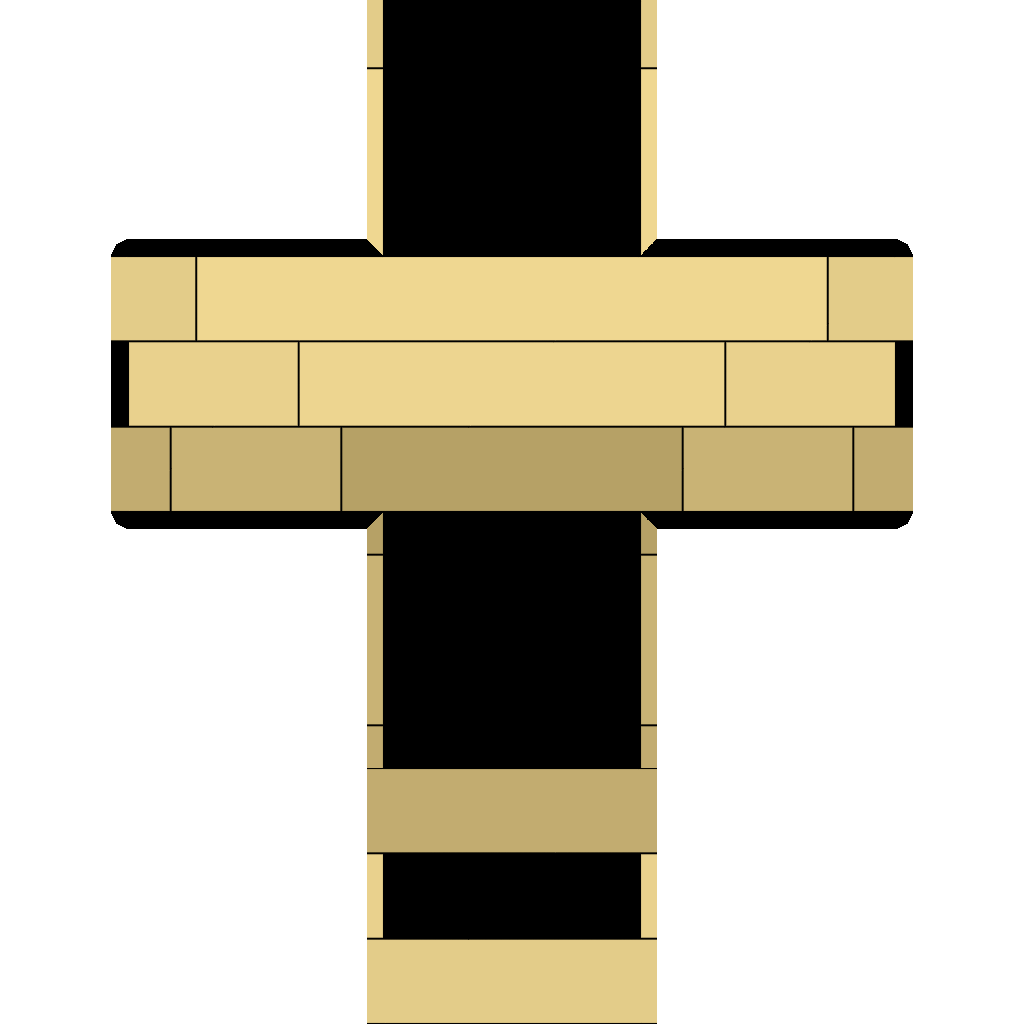
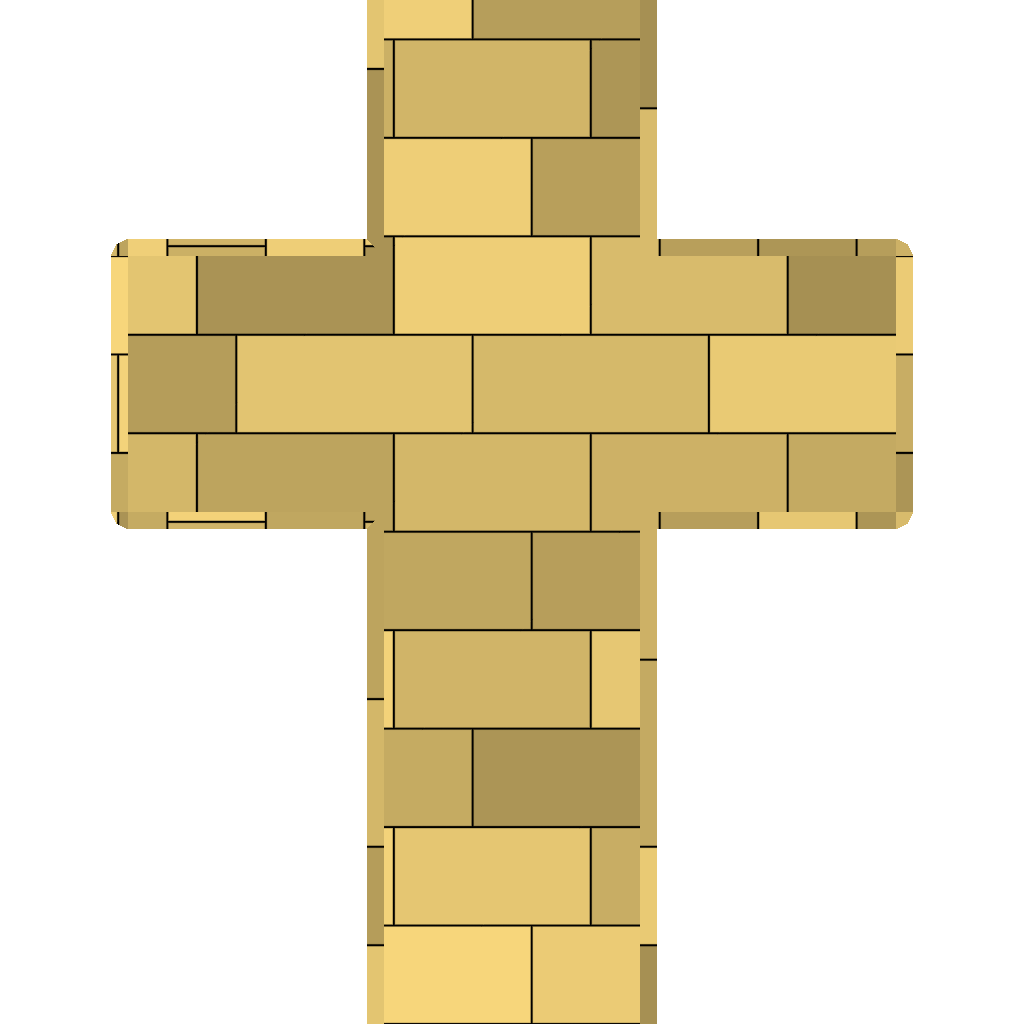
changed rock graphic and added it as slide obstacle

diff --git a/Assets/_Scripts/TileSpawner.cs b/Assets/_Scripts/TileSpawner.cs
@@ -102,8 +102,14 @@ public class TileSpawner : MonoBehaviour
         Quaternion newObjectRotation = obstaclePrefab.gameObject.transform.rotation * Quaternion.LookRotation(currentTileDirection, Vector3.up);
         GameObject obstacle = Instantiate(obstaclePrefab, currentTileLocation, newObjectRotation);//spawn and add to the list
         Vector3 newPosition = obstacle.transform.position;
-        newPosition.y += 0.5f;
-        obstacle.transform.position = newPosition;
+        if(obstacle.name == "Obstacle(Clone)"){
+            newPosition.y += 0.5f;
+            obstacle.transform.position = newPosition;
+        }
+        if(obstacle.name == "SlideObstacle(Clone)"){
+            newPosition.y += 2.5f;
+            obstacle.transform.position = newPosition;
+        }
         currentObstacles.Add(obstacle);
     }
 
